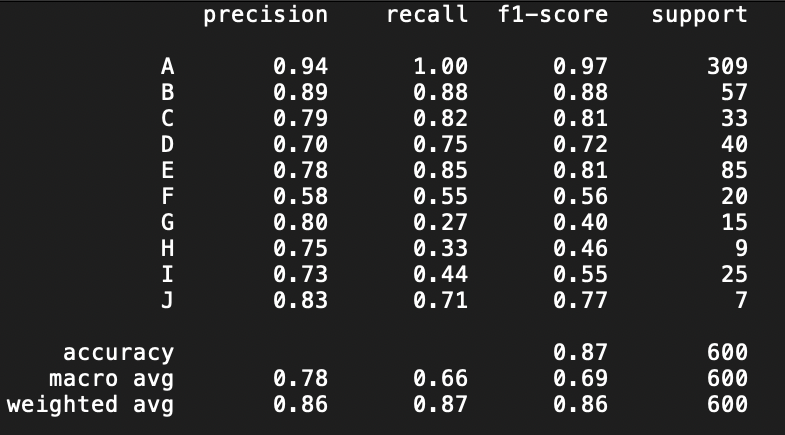
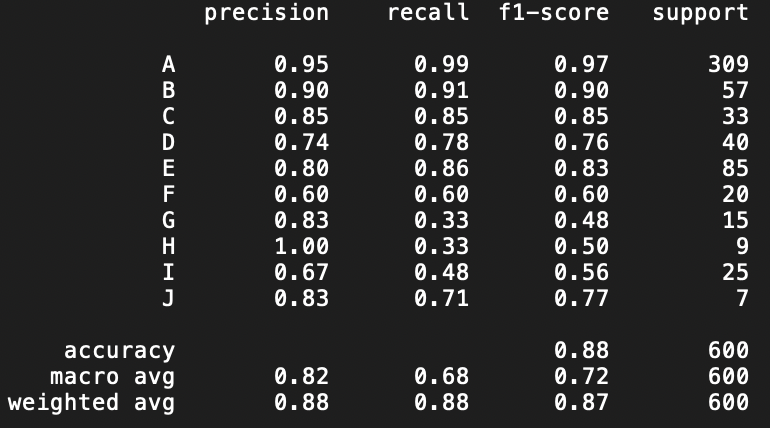
Improved the program by setting k = 8

diff --git a/knn.py b/knn.py
@@ -183,7 +183,7 @@ def main():
 	t0 = time.perf_counter()
 	data = load('data/data.csv')
 	evaluate = load('data/preTest.csv')
-	k = 20
+	k = 8
 	final = []
 
 	for i in evaluate:

diff --git a/README.md b/README.md
@@ -189,7 +189,7 @@ def main():
 	t0 = time.perf_counter()
 	data = load('data/data.csv')
 	evaluate = load('data/preTest.csv')
-	k = 20
+	k = 8
 	final = []
 
 	for i in evaluate:
@@ -207,7 +207,7 @@ This is the main. We are just running the programm here and setting the k (so th
 
 ## Results
 
-> Here are the results with k = 20
+> I first ran the program with k = 20, but after a brute force test, it appears that the best accuracy score we can obtain with this specific dataset and this specific algorithm is obtained by setting k = 8. So I updated the confusion matrix and the calssification report below
 
 **Confusion matrix without normalization:**
 
@@ -220,3 +220,7 @@ This is the main. We are just running the programm here and setting the k (so th
 **Classification report:**
 
 <img src="results/classification_report.png" width=1000>
+
+## Ways to improve the program
+
+So as I mentionned earlier, with this specific dataset, the best accuracy score is obtained by setting k = 8. Another way to improve the program might be to introduce a normalization for each label and testing it with the actual method.
